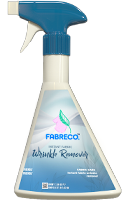
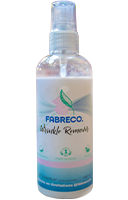
some code added

diff --git a/index.html b/index.html
@@ -241,7 +241,7 @@
                <div class="offset-lg-2 col-lg-3 col-md-6 padding-top " >
                   <div class="card margin-auto" style="width: 16rem;">
                      <div class="text-center">
-                        <img src="images/PROCUCT.png"  alt="...">
+                        <img src="images/PROCUCT2.png"  alt="...">
                      </div>
                      <div class="card-body">
                         <h5 class="card-title">WRINKLE REMOVER</h5>
@@ -452,13 +452,13 @@
                   </p>
                </div>
             </div>
-            <a href="https://www.facebook.com/pg/fabreco.wrinkleremover"><i class="social-icon fab fa-facebook-f" aria-hidden="true"></i></a> 
-            <a href="https://twitter.com/Fabreco2"> <i class="social-icon fab fa-twitter" aria-hidden="true"></i></a>
-            <a href="https://www.instagram.com/fabreco_wrinkleremover/"> <i class="social-icon fab fa-instagram" aria-hidden="true"></i></a>
-            <a href="https://www.quora.com/profile/Fabreco"> <i class=" social-icon fab fa-quora" aria-hidden="true" ></i></a>
-            <a href="https://in.pinterest.com/fabreco_wrinkleremover/"><i class="social-icon fab fa-pinterest" aria-hidden="true"></i></a>
-            <a href="https://www.youtube.com/channel/UCb5-Y7MjadExG6E2HvaBB7g"> <i class="social-icon fab fa-youtube" aria-hidden="true"></i></a>
-            <a href="https://www.linkedin.com/company/fabreco"> <i class="social-icon fab fa-linkedin" aria-hidden="true"></i></a>
+            <a href="https://www.facebook.com/pg/fabreco.wrinkleremover" target="_blank"><i class="social-icon fab fa-facebook-f" aria-hidden="true"></i></a> 
+            <a href="https://twitter.com/Fabreco2" target="_blank"> <i class="social-icon fab fa-twitter" aria-hidden="true"></i></a>
+            <a href="https://www.instagram.com/fabreco_wrinkleremover/" target="_blank"> <i class="social-icon fab fa-instagram" aria-hidden="true"></i></a>
+            <a href="https://www.quora.com/profile/Fabreco" target="_blank"> <i class=" social-icon fab fa-quora" aria-hidden="true" ></i></a>
+            <a href="https://in.pinterest.com/fabreco_wrinkleremover/" target="_blank"><i class="social-icon fab fa-pinterest" aria-hidden="true"></i></a>
+            <a href="https://www.youtube.com/channel/UCb5-Y7MjadExG6E2HvaBB7g" target="_blank"> <i class="social-icon fab fa-youtube" aria-hidden="true"></i></a>
+            <a href="https://www.linkedin.com/company/fabreco" target="_blank"> <i class="social-icon fab fa-linkedin" aria-hidden="true"></i></a>
             <p>© Copyright 2020 Fabreco</p>
          </div>
       </footer>
